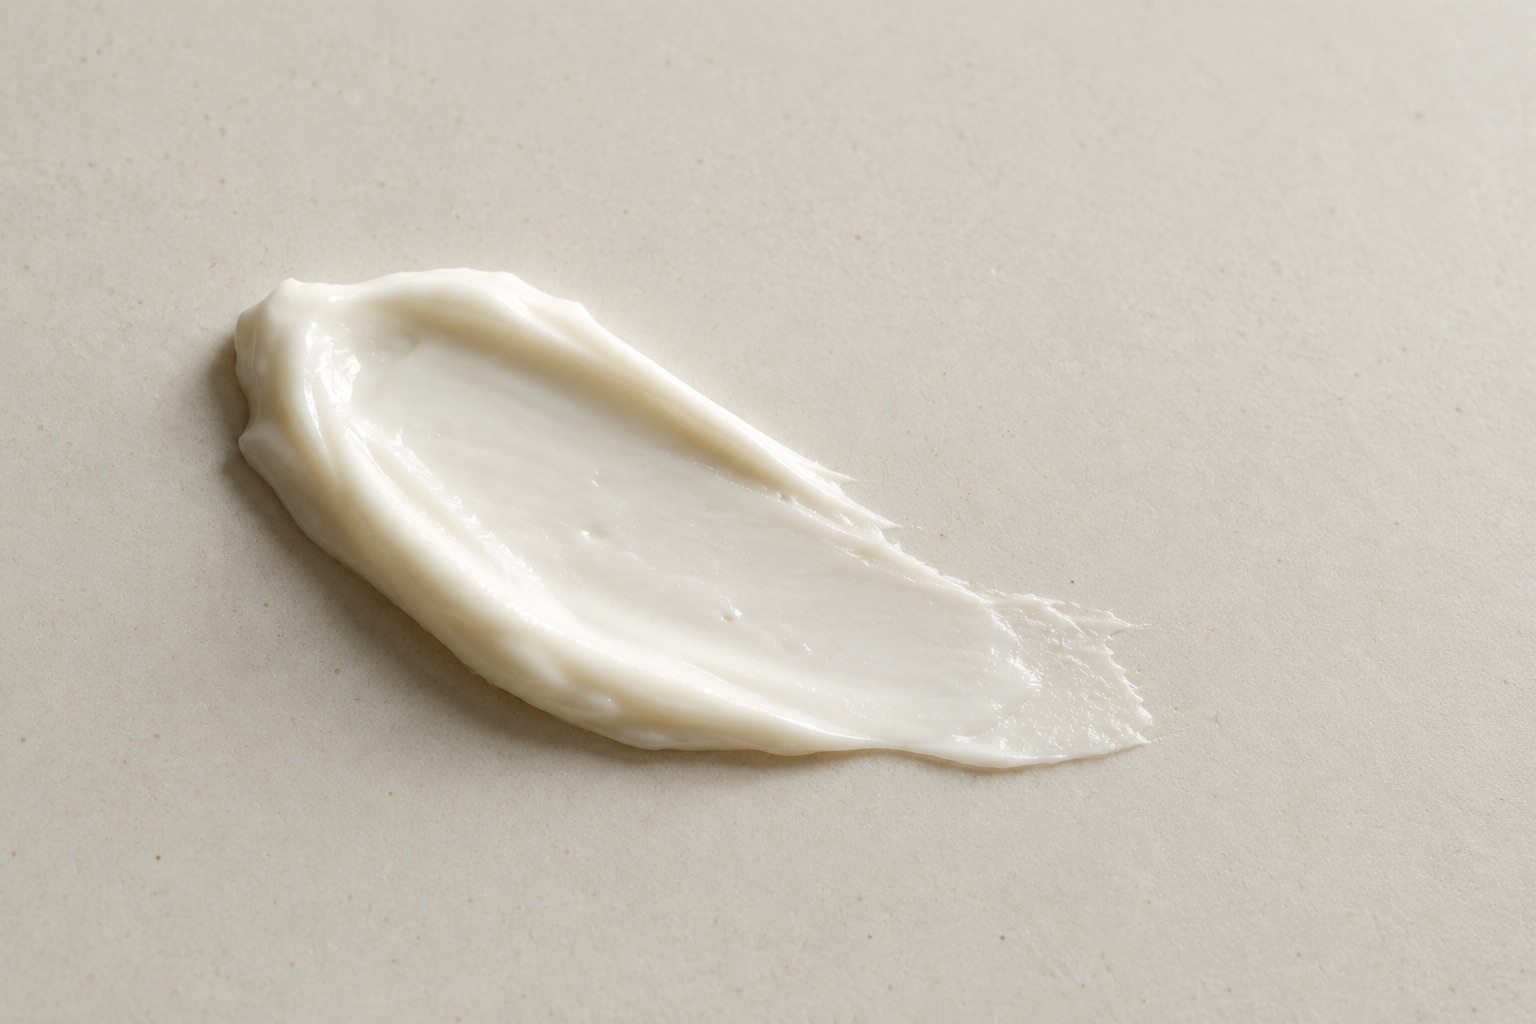
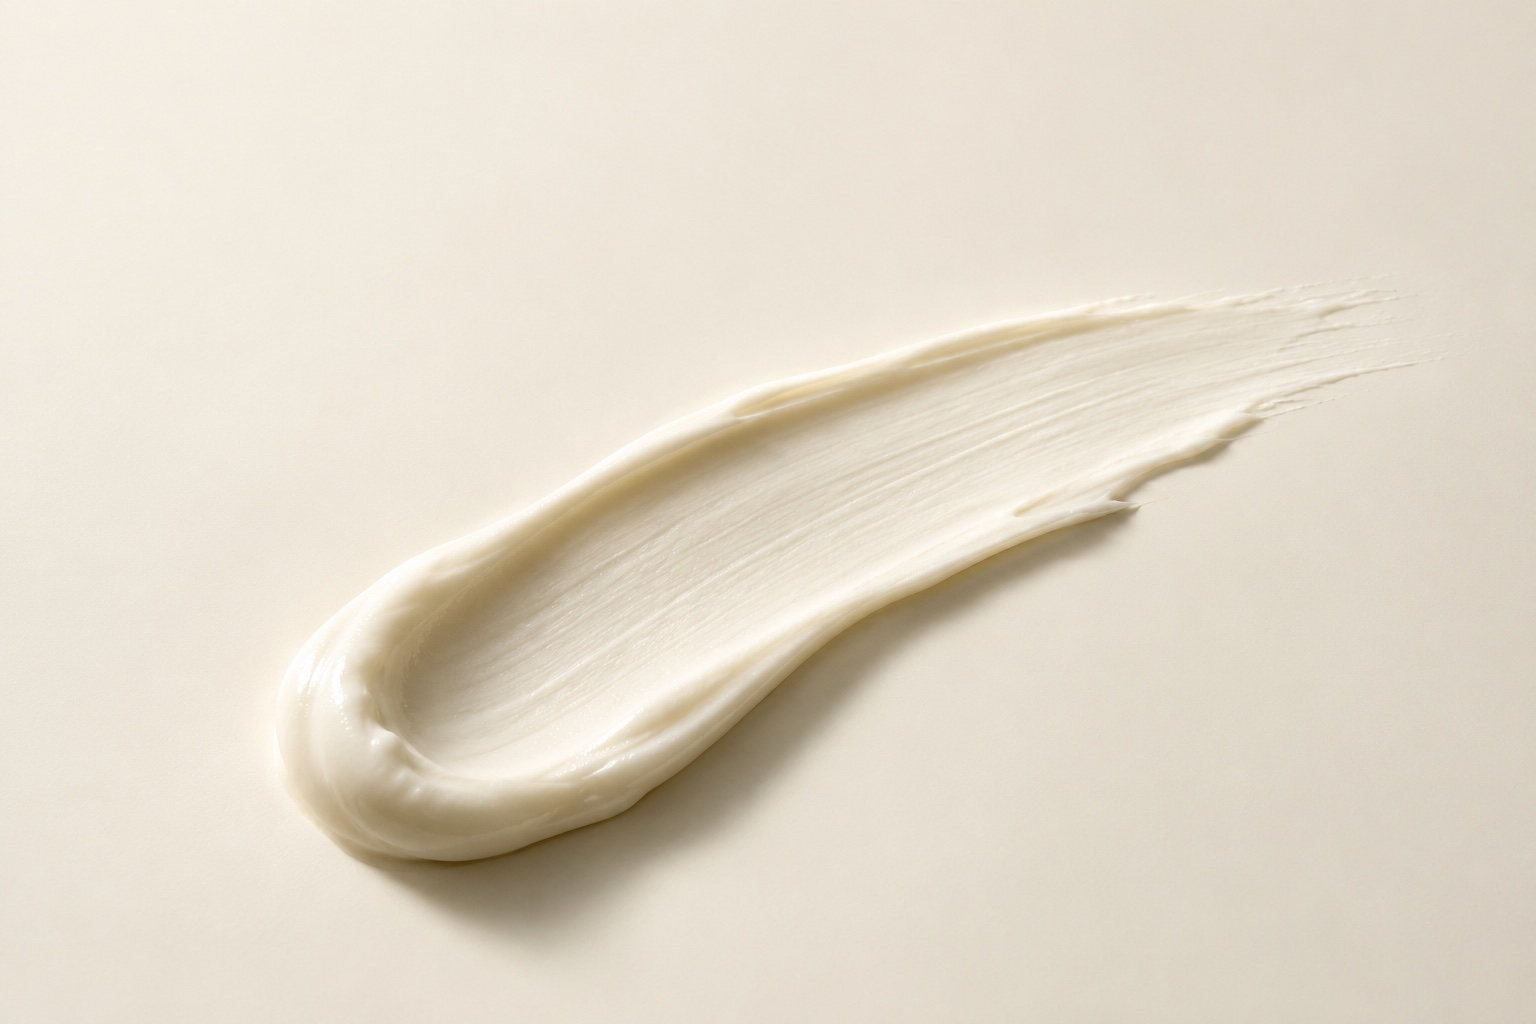
Refine sensory imagery and use cinematic video as full hero background

diff --git a/aloe-site.css b/aloe-site.css
@@ -20,6 +20,8 @@ h1:not(.hero h1){font-size:clamp(42px,5vw,72px);letter-spacing:-.045em;line-heig
 .current-catalog .choice-layout{display:block}.current-catalog .choice-options{gap:28px}.current-catalog .choice-card{padding:28px}.variant-photo{width:100%;height:360px;display:flex;align-items:center;justify-content:center;background:#e4e8dc;overflow:hidden;margin-bottom:12px}.variant-photo-250{background:#e7e9e8}.variant-photo img{width:100%;height:100%;object-fit:contain;transition:transform .3s}.variant-photo-80 img{padding:22px}.variant-photo:hover img{transform:scale(1.025)}.choice-card .variant-caption{font-size:11px;margin:0 0 22px;color:var(--muted)}.product-photo #product-image{object-fit:contain;max-width:100%;height:470px}.product-photo:has(img[src$="250.jpeg"]){background:#e7e9e8}
 @media(max-width:650px){.current-catalog .choice-options{grid-template-columns:1fr;gap:22px}.current-catalog .choice-card{padding:22px}.variant-photo{height:330px}.product-photo #product-image{height:350px}.current-catalog .choice-card h3{font-size:64px}}
 
+#inicio.film-hero{display:block;position:relative;isolation:isolate;overflow:hidden;background:#142319;min-height:720px;color:#f5f2e9}#inicio .film-visual{position:absolute;inset:0;width:100%;height:100%;min-height:100%;overflow:hidden}#inicio .film-visual video{z-index:0;width:100%;height:100%;object-fit:cover;object-position:center}#inicio:before{content:'';position:absolute;inset:0;z-index:1;pointer-events:none;background:linear-gradient(90deg,rgba(9,22,15,.9) 0%,rgba(9,22,15,.73) 38%,rgba(9,22,15,.24) 72%,rgba(9,22,15,.32) 100%)}#inicio .film-hero-copy{position:relative;z-index:2;max-width:760px;min-height:720px;padding:64px max(28px,calc((100vw - 1240px)/2)) 90px;padding-right:40px;background:transparent;justify-content:center}#inicio h1#film-title{font-size:clamp(62px,6vw,88px);color:#fffdf5;text-shadow:0 2px 18px #0003}#inicio h1 em{color:#dce4c8}#inicio .film-hero-copy>.eyebrow,#inicio .film-product-line,#inicio .film-hero-copy>p,#inicio .film-signature{color:#f5f2e9}#inicio .film-hero-copy>p{max-width:440px;font-size:15px}#inicio .film-product-line{max-width:470px}#inicio .film-actions .btn{background:#f5f2e9;color:#20382d;border-color:#f5f2e9}#inicio .film-community{color:#fffdf5}#inicio .film-signature{max-width:440px;border-color:#ffffff40;margin-top:30px}#inicio .film-topline{display:none}#inicio .film-bottomline{z-index:3;padding:20px max(24px,calc((100vw - 1240px)/2));background:linear-gradient(transparent,#101d1680);pointer-events:none}#inicio .film-bottomline button{pointer-events:auto;min-height:44px}#inicio .film-bottomline>span{font-size:10px}#inicio .film-actions a:focus-visible{outline:3px solid #fff;outline-offset:5px}
+@media(max-width:650px){#inicio.film-hero{min-height:740px}#inicio .film-hero-copy{min-height:740px;width:100%;padding:42px 24px 96px}#inicio h1#film-title{font-size:59px}#inicio:before{background:linear-gradient(90deg,#0a1c13e8,#0a1c1399),linear-gradient(0deg,#0a1c1370,transparent)}#inicio .film-visual video{object-position:58% center}#inicio .film-hero-copy>p{font-size:14px;line-height:1.7}#inicio .film-product-line{font-size:15px}#inicio .film-actions{gap:18px}#inicio .film-bottomline{padding:16px 20px}#inicio .film-bottomline>span{max-width:170px;font-size:9px}}
 .sensory-test{padding-block:10px 64px}.sensory-pair{display:grid;grid-template-columns:1fr 1fr;gap:24px}.sensory-pair figure{margin:0;min-width:0}.sensory-image{position:relative;display:block;width:100%;padding:0;border:0;background:#efebe2;cursor:zoom-in;overflow:hidden}.sensory-image img{display:block;width:100%;height:auto;aspect-ratio:3/2;object-fit:cover;transition:transform .35s}.sensory-image:hover img{transform:scale(1.025)}.sensory-image>span{position:absolute;bottom:14px;right:14px;background:rgba(245,242,233,.92);color:var(--pine);padding:7px 12px;font-size:20px}.sensory-image:focus-visible{outline:2px solid var(--pine);outline-offset:5px}.sensory-pair figcaption{font-size:12px;margin-top:12px;color:var(--pine)}.sensory-disclaimer{font-size:10px;line-height:1.7;color:var(--muted);margin-top:16px}.sensory-test{scroll-margin-top:160px}@media(max-width:650px){.sensory-pair{grid-template-columns:1fr;gap:26px}.sensory-test{padding-bottom:40px;scroll-margin-top:85px}}@media(prefers-reduced-motion:reduce){.sensory-image img{transition:none;transform:none!important}}
 .editorial-figure{margin:0 0 24px;min-width:0}.editorial-image{display:block;position:relative;width:100%;padding:0;border:0;background:#e4e8dc;overflow:hidden;cursor:zoom-in;color:var(--pine)}.editorial-image img{display:block;width:100%;height:auto;aspect-ratio:3/2;object-fit:cover;transition:transform .5s}.editorial-image:hover img{transform:scale(1.035)}.editorial-image:focus-visible,.product-enlarge:focus-visible{outline:3px solid var(--pine);outline-offset:5px}.image-expand{position:absolute;right:14px;bottom:14px;background:var(--cream);border-radius:50%;width:34px;height:34px;display:grid;place-items:center;font-size:20px}.editorial-figure figcaption{font-size:10px;letter-spacing:.03em;color:var(--muted);margin-top:9px}.product-story .story-split{grid-template-columns:1fr 1fr;gap:28px 60px}.product-story .editorial-figure{grid-column:2;grid-row:1;margin:0}.product-story .ingredient-labels{grid-column:1/-1;align-items:center;margin-top:16px}.ingredient-labels>a{border:1px solid #a4b09b;border-radius:50px;padding:13px 20px;font-size:15px;text-decoration:none;transition:background .2s,color .2s}.ingredient-labels>a:hover,.ingredient-labels>a:focus-visible{background:var(--pine);color:var(--cream)}.ingredient-labels p{flex-basis:100%;max-width:100%;margin:10px 0 0}.life-grid .editorial-figure{margin-bottom:28px}.life-grid .editorial-image img{aspect-ratio:4/5}.botanical-banner{margin-block:30px}.botanical-banner .editorial-image img{aspect-ratio:3/1}.product-enlarge{border:1px solid var(--line);background:var(--cream);color:var(--pine);padding:10px 18px;cursor:zoom-in;font:inherit;font-size:12px}.image-viewer{width:min(1100px,94vw);max-width:94vw;max-height:94dvh;padding:20px;background:var(--cream);color:var(--pine);border:1px solid var(--line)}.image-viewer::backdrop{background:rgba(15,29,22,.86)}.viewer-toolbar{display:flex;gap:10px;align-items:center;margin-bottom:16px}.viewer-toolbar button{background:transparent;color:inherit;border:1px solid var(--line);min-height:44px;padding:8px 15px;font:inherit;font-size:13px;cursor:pointer}.viewer-toolbar #viewer-close{margin-left:auto}.viewer-stage{height:min(68dvh,720px);overflow:auto;background:#e4e8dc}.viewer-stage img{display:block;width:100%;height:100%;object-fit:contain}.viewer-stage.is-zoomed img{width:180%;height:auto;max-width:none;min-height:100%;object-fit:contain}.image-viewer p{font-size:12px;margin:14px 0 0}.image-viewer button:focus-visible{outline:2px solid var(--pine);outline-offset:2px}body:has(#image-viewer[open]){overflow:hidden}
 @media(max-width:650px){.product-story .story-split{grid-template-columns:1fr;gap:26px}.product-story .editorial-figure{grid-column:1;grid-row:auto}.product-story .ingredient-labels{grid-column:1}.life-grid .editorial-image img{aspect-ratio:3/2}.botanical-banner .editorial-image img{aspect-ratio:3/2}.image-viewer{padding:14px}.viewer-toolbar{gap:6px}.viewer-toolbar button{padding:8px 10px}.viewer-stage{height:60dvh}}
